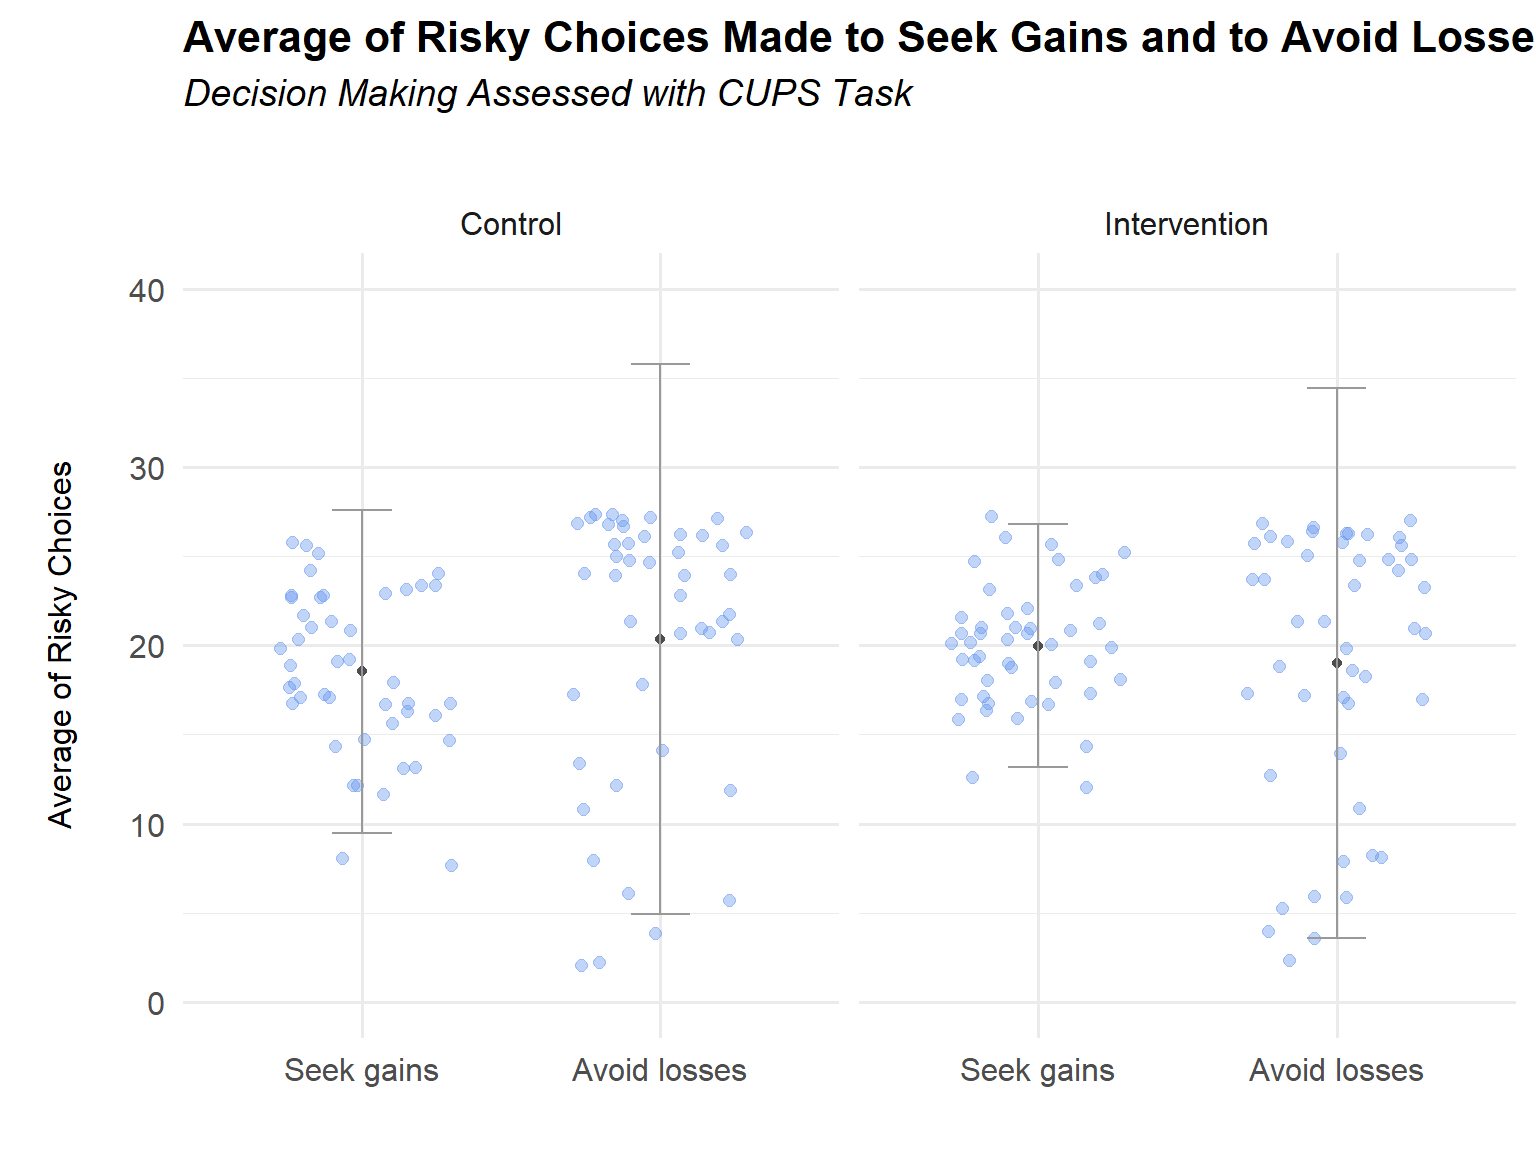
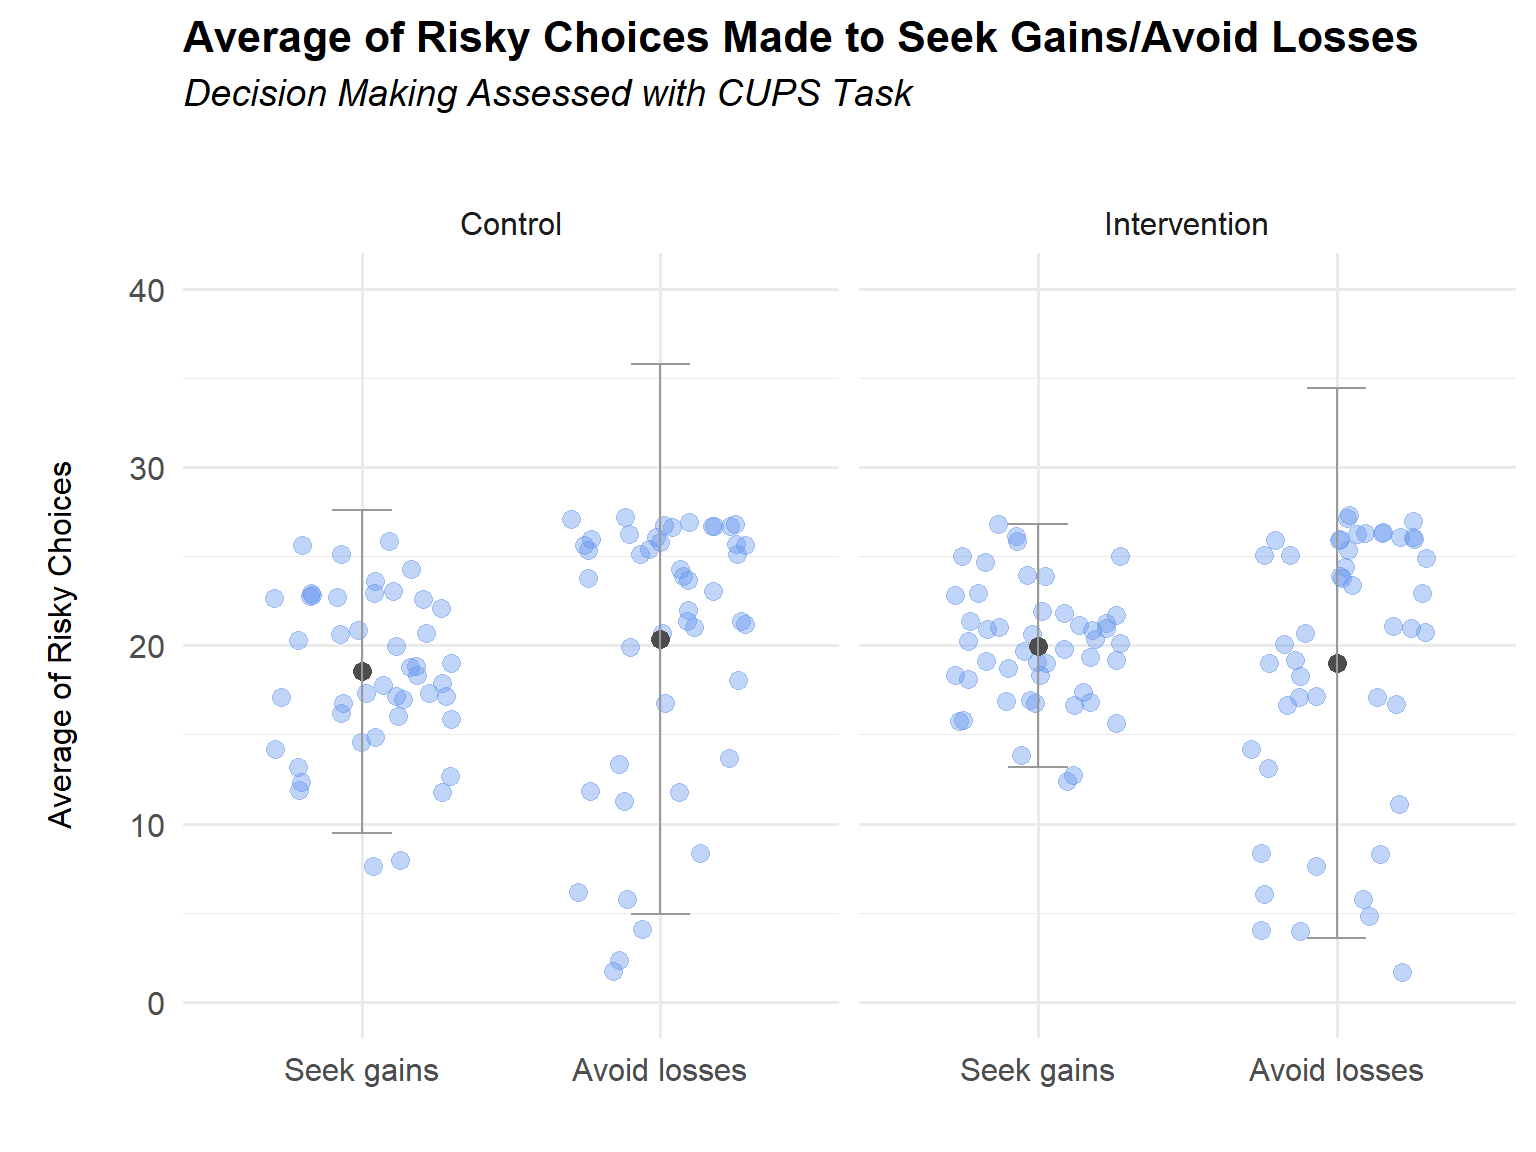
Added third viz and added task info in about

diff --git a/docs/posts/2019-03-18-third-data-viz/index.html b/docs/posts/2019-03-18-third-data-viz/index.html
@@ -21,7 +21,7 @@
   <!--radix_placeholder_meta_tags-->
 <title>Ale's Final Viz: Third Data Viz</title>
 
-<meta property="description" itemprop="description" content="A short description of the post."/>
+<meta property="description" itemprop="description" content="In this last visualization, I want to provide information about the average of risky choices made by the girls in the sample, differentiating when the risky choices were made in gain trials or loss trials of the CUPS task. Visit the About section for a brief description of the task."/>
 
 
 <!--  https://schema.org/Article -->
@@ -32,25 +32,25 @@
 <!--  https://developers.facebook.com/docs/sharing/webmasters#markup -->
 <meta property="og:title" content="Ale&#39;s Final Viz: Third Data Viz"/>
 <meta property="og:type" content="article"/>
-<meta property="og:description" content="A short description of the post."/>
+<meta property="og:description" content="In this last visualization, I want to provide information about the average of risky choices made by the girls in the sample, differentiating when the risky choices were made in gain trials or loss trials of the CUPS task. Visit the About section for a brief description of the task."/>
 <meta property="og:locale" content="en_US"/>
 <meta property="og:site_name" content="Ale&#39;s Final Viz"/>
 
 <!--  https://dev.twitter.com/cards/types/summary -->
 <meta property="twitter:card" content="summary"/>
 <meta property="twitter:title" content="Ale&#39;s Final Viz: Third Data Viz"/>
-<meta property="twitter:description" content="A short description of the post."/>
+<meta property="twitter:description" content="In this last visualization, I want to provide information about the average of risky choices made by the girls in the sample, differentiating when the risky choices were made in gain trials or loss trials of the CUPS task. Visit the About section for a brief description of the task."/>
 
 <!--/radix_placeholder_meta_tags-->
   <!--radix_placeholder_rmarkdown_metadata-->
 
 <script type="text/json" id="radix-rmarkdown-metadata">
-{"type":"list","attributes":{"names":{"type":"character","attributes":{},"value":["title","description","author","date","output"]}},"value":[{"type":"character","attributes":{},"value":["Third Data Viz"]},{"type":"character","attributes":{},"value":["A short description of the post."]},{"type":"list","attributes":{},"value":[{"type":"list","attributes":{"names":{"type":"character","attributes":{},"value":["name","url"]}},"value":[{"type":"character","attributes":{},"value":["Alejandra Garcia Isaza"]},{"type":"character","attributes":{},"value":["https://github.com/Alegarisa"]}]}]},{"type":"character","attributes":{},"value":["03-18-2019"]},{"type":"list","attributes":{"names":{"type":"character","attributes":{},"value":["distill::distill_article"]}},"value":[{"type":"list","attributes":{"names":{"type":"character","attributes":{},"value":["self_contained"]}},"value":[{"type":"logical","attributes":{},"value":[false]}]}]}]}
+{"type":"list","attributes":{"names":{"type":"character","attributes":{},"value":["title","description","author","date","output"]}},"value":[{"type":"character","attributes":{},"value":["Third Data Viz"]},{"type":"character","attributes":{},"value":["In this last visualization, I want to provide information about the average of risky choices made by the girls in the sample, differentiating when the risky choices were made in gain trials or loss trials of the CUPS task. Visit the About section for a brief description of the task."]},{"type":"list","attributes":{},"value":[{"type":"list","attributes":{"names":{"type":"character","attributes":{},"value":["name","url"]}},"value":[{"type":"character","attributes":{},"value":["Alejandra Garcia Isaza"]},{"type":"character","attributes":{},"value":["https://github.com/Alegarisa"]}]}]},{"type":"character","attributes":{},"value":["03-18-2019"]},{"type":"list","attributes":{"names":{"type":"character","attributes":{},"value":["distill::distill_article"]}},"value":[{"type":"list","attributes":{"names":{"type":"character","attributes":{},"value":["self_contained"]}},"value":[{"type":"logical","attributes":{},"value":[false]}]}]}]}
 </script>
 <!--/radix_placeholder_rmarkdown_metadata-->
   
   <script type="text/json" id="radix-resource-manifest">
-  {"type":"character","attributes":{},"value":["third-data-viz_files/figure-html5/unnamed-chunk-2-1.png","third-data-viz_files/figure-html5/unnamed-chunk-3-1.png","third-data-viz_files/figure-html5/unnamed-chunk-4-1.png"]}
+  {"type":"character","attributes":{},"value":["third-data-viz_files/bowser-1.9.3/bowser.min.js","third-data-viz_files/distill-2.2.21/template.v2.js","third-data-viz_files/figure-html5/unnamed-chunk-2-1.png","third-data-viz_files/figure-html5/unnamed-chunk-3-1.png","third-data-viz_files/figure-html5/unnamed-chunk-4-1.png","third-data-viz_files/jquery-1.11.3/jquery.min.js","third-data-viz_files/webcomponents-2.0.0/webcomponents.js"]}
   </script>
   <!--radix_placeholder_navigation_in_header-->
 
@@ -1280,7 +1280,7 @@ document.addEventListener('DOMContentLoaded', function() {
 <!--radix_placeholder_front_matter-->
 
 <script id="distill-front-matter" type="text/json">
-{"title":"Third Data Viz","description":"A short description of the post.","authors":[{"author":"Alejandra Garcia Isaza","authorURL":"https://github.com/Alegarisa","affiliation":"&nbsp;","affiliationURL":"#"}],"publishedDate":"2019-03-18T00:00:00.000-07:00","citationText":"Isaza, 2019"}
+{"title":"Third Data Viz","description":"In this last visualization, I want to provide information about the average of risky choices made by the girls in the sample, differentiating when the risky choices were made in gain trials or loss trials of the CUPS task. Visit the About section for a brief description of the task.","authors":[{"author":"Alejandra Garcia Isaza","authorURL":"https://github.com/Alegarisa","affiliation":"&nbsp;","affiliationURL":"#"}],"publishedDate":"2019-03-18T00:00:00.000-07:00","citationText":"Isaza, 2019"}
 </script>
 
 <!--/radix_placeholder_front_matter-->
@@ -1303,7 +1303,7 @@ document.addEventListener('DOMContentLoaded', function() {
 
 <div class="d-title">
 <h1>Third Data Viz</h1>
-<p>A short description of the post.</p>
+<p>In this last visualization, I want to provide information about the average of risky choices made by the girls in the sample, differentiating when the risky choices were made in gain trials or loss trials of the CUPS task. Visit the About section for a brief description of the task.</p>
 </div>
 
 <div class="d-byline">
@@ -1316,15 +1316,15 @@ document.addEventListener('DOMContentLoaded', function() {
 <div class="layout-chunk" data-layout="l-body">
 
 </div>
-<p>First attempt</p>
+<p>In the first version of this visualization, I just tidied the data to get the total number of risky choices made in loss and gain domains in one column, but it didn’t work. I realized that I had to take the averages next.</p>
 <div class="layout-chunk" data-layout="l-body">
 <p><img src="third-data-viz_files/figure-html5/unnamed-chunk-2-1.png" width="768" /></p>
 </div>
-<p>Second attempt</p>
+<p>In the second attempt, I took the averages of the risky choices made in each of the domains, but still. the Y-axis was not showing the average but a count.</p>
 <div class="layout-chunk" data-layout="l-body">
 <p><img src="third-data-viz_files/figure-html5/unnamed-chunk-3-1.png" width="768" /></p>
 </div>
-<p>Third version</p>
+<p>For the third and final version of this visualization, I decided to abort the mission of doing a dynamite plot, which I finally understood is not very effective and may be deceiving, and went for a dot plot. In this visualization, you can appreciate the spread of the data points, where clusters of data are, and you can still add the average (the gray dots) and errors bars. I felt happy about the result of this visualization!</p>
 <div class="layout-chunk" data-layout="l-body">
 <p><img src="third-data-viz_files/figure-html5/unnamed-chunk-4-1.png" width="768" /></p>
 </div>

diff --git a/_posts/2019-03-18-third-data-viz/third-data-viz.html b/_posts/2019-03-18-third-data-viz/third-data-viz.html
@@ -21,7 +21,7 @@
   <!--radix_placeholder_meta_tags-->
   <title>Third Data Viz</title>
   
-  <meta property="description" itemprop="description" content="A short description of the post."/>
+  <meta property="description" itemprop="description" content="In this last visualization, I want to provide information about the average of risky choices made by the girls in the sample, differentiating when the risky choices were made in gain trials or loss trials of the CUPS task. Visit the About section for a brief description of the task."/>
   
   
   <!--  https://schema.org/Article -->
@@ -32,24 +32,24 @@
   <!--  https://developers.facebook.com/docs/sharing/webmasters#markup -->
   <meta property="og:title" content="Third Data Viz"/>
   <meta property="og:type" content="article"/>
-  <meta property="og:description" content="A short description of the post."/>
+  <meta property="og:description" content="In this last visualization, I want to provide information about the average of risky choices made by the girls in the sample, differentiating when the risky choices were made in gain trials or loss trials of the CUPS task. Visit the About section for a brief description of the task."/>
   <meta property="og:locale" content="en_US"/>
   
   <!--  https://dev.twitter.com/cards/types/summary -->
   <meta property="twitter:card" content="summary"/>
   <meta property="twitter:title" content="Third Data Viz"/>
-  <meta property="twitter:description" content="A short description of the post."/>
+  <meta property="twitter:description" content="In this last visualization, I want to provide information about the average of risky choices made by the girls in the sample, differentiating when the risky choices were made in gain trials or loss trials of the CUPS task. Visit the About section for a brief description of the task."/>
   
   <!--/radix_placeholder_meta_tags-->
   <!--radix_placeholder_rmarkdown_metadata-->
   
   <script type="text/json" id="radix-rmarkdown-metadata">
-  {"type":"list","attributes":{"names":{"type":"character","attributes":{},"value":["title","description","author","date","output"]}},"value":[{"type":"character","attributes":{},"value":["Third Data Viz"]},{"type":"character","attributes":{},"value":["A short description of the post.\n"]},{"type":"list","attributes":{},"value":[{"type":"list","attributes":{"names":{"type":"character","attributes":{},"value":["name","url"]}},"value":[{"type":"character","attributes":{},"value":["Alejandra Garcia Isaza"]},{"type":"character","attributes":{},"value":["https://github.com/Alegarisa"]}]}]},{"type":"character","attributes":{},"value":["03-18-2019"]},{"type":"list","attributes":{"names":{"type":"character","attributes":{},"value":["distill::distill_article"]}},"value":[{"type":"list","attributes":{"names":{"type":"character","attributes":{},"value":["self_contained"]}},"value":[{"type":"logical","attributes":{},"value":[false]}]}]}]}
+  {"type":"list","attributes":{"names":{"type":"character","attributes":{},"value":["title","description","author","date","output"]}},"value":[{"type":"character","attributes":{},"value":["Third Data Viz"]},{"type":"character","attributes":{},"value":["In this last visualization, I want to provide information about the average of risky choices made by the girls in the sample, differentiating when the risky choices were made in gain trials or loss trials of the CUPS task. Visit the About section for a brief description of the task. \n"]},{"type":"list","attributes":{},"value":[{"type":"list","attributes":{"names":{"type":"character","attributes":{},"value":["name","url"]}},"value":[{"type":"character","attributes":{},"value":["Alejandra Garcia Isaza"]},{"type":"character","attributes":{},"value":["https://github.com/Alegarisa"]}]}]},{"type":"character","attributes":{},"value":["03-18-2019"]},{"type":"list","attributes":{"names":{"type":"character","attributes":{},"value":["distill::distill_article"]}},"value":[{"type":"list","attributes":{"names":{"type":"character","attributes":{},"value":["self_contained"]}},"value":[{"type":"logical","attributes":{},"value":[false]}]}]}]}
   </script>
   <!--/radix_placeholder_rmarkdown_metadata-->
   
   <script type="text/json" id="radix-resource-manifest">
-  {"type":"character","attributes":{},"value":["third-data-viz_files/figure-html5/unnamed-chunk-2-1.png","third-data-viz_files/figure-html5/unnamed-chunk-3-1.png","third-data-viz_files/figure-html5/unnamed-chunk-4-1.png"]}
+  {"type":"character","attributes":{},"value":["third-data-viz_files/bowser-1.9.3/bowser.min.js","third-data-viz_files/distill-2.2.21/template.v2.js","third-data-viz_files/figure-html5/unnamed-chunk-2-1.png","third-data-viz_files/figure-html5/unnamed-chunk-3-1.png","third-data-viz_files/figure-html5/unnamed-chunk-4-1.png","third-data-viz_files/jquery-1.11.3/jquery.min.js","third-data-viz_files/webcomponents-2.0.0/webcomponents.js"]}
   </script>
   <!--radix_placeholder_navigation_in_header-->
   <!--/radix_placeholder_navigation_in_header-->
@@ -942,7 +942,7 @@
 <!--radix_placeholder_front_matter-->
 
 <script id="distill-front-matter" type="text/json">
-{"title":"Third Data Viz","description":"A short description of the post.","authors":[{"author":"Alejandra Garcia Isaza","authorURL":"https://github.com/Alegarisa","affiliation":"&nbsp;","affiliationURL":"#"}],"publishedDate":"2019-03-18T00:00:00.000-07:00","citationText":"Isaza, 2019"}
+{"title":"Third Data Viz","description":"In this last visualization, I want to provide information about the average of risky choices made by the girls in the sample, differentiating when the risky choices were made in gain trials or loss trials of the CUPS task. Visit the About section for a brief description of the task.","authors":[{"author":"Alejandra Garcia Isaza","authorURL":"https://github.com/Alegarisa","affiliation":"&nbsp;","affiliationURL":"#"}],"publishedDate":"2019-03-18T00:00:00.000-07:00","citationText":"Isaza, 2019"}
 </script>
 
 <!--/radix_placeholder_front_matter-->
@@ -953,7 +953,7 @@
 
 <div class="d-title">
 <h1>Third Data Viz</h1>
-<p>A short description of the post.</p>
+<p>In this last visualization, I want to provide information about the average of risky choices made by the girls in the sample, differentiating when the risky choices were made in gain trials or loss trials of the CUPS task. Visit the About section for a brief description of the task.</p>
 </div>
 
 <div class="d-byline">
@@ -966,15 +966,15 @@
 <div class="layout-chunk" data-layout="l-body">
 
 </div>
-<p>First attempt</p>
+<p>In the first version of this visualization, I just tidied the data to get the total number of risky choices made in loss and gain domains in one column, but it didn’t work. I realized that I had to take the averages next.</p>
 <div class="layout-chunk" data-layout="l-body">
 <p><img src="third-data-viz_files/figure-html5/unnamed-chunk-2-1.png" width="768" /></p>
 </div>
-<p>Second attempt</p>
+<p>In the second attempt, I took the averages of the risky choices made in each of the domains, but still. the Y-axis was not showing the average but a count.</p>
 <div class="layout-chunk" data-layout="l-body">
 <p><img src="third-data-viz_files/figure-html5/unnamed-chunk-3-1.png" width="768" /></p>
 </div>
-<p>Third version</p>
+<p>For the third and final version of this visualization, I decided to abort the mission of doing a dynamite plot, which I finally understood is not very effective and may be deceiving, and went for a dot plot. In this visualization, you can appreciate the spread of the data points, where clusters of data are, and you can still add the average (the gray dots) and errors bars. I felt happy about the result of this visualization!</p>
 <div class="layout-chunk" data-layout="l-body">
 <p><img src="third-data-viz_files/figure-html5/unnamed-chunk-4-1.png" width="768" /></p>
 </div>

diff --git a/docs/about.html b/docs/about.html
@@ -1301,7 +1301,11 @@
 
 <div class="d-article">
 <p>The present study used data from the Middle School Success Project, a longitudinal randomized controlled trial that evaluated the efficacy of a version of the KEEP SAFE program for pre-adolescent girls in foster care (Chamberlain, Leve, &amp; Smith, 2006).</p>
-<p>The literature suggests that adverse events that foster youth experience during childhood may uniquely shape youth’s decision-making. In this project I intend to investigate the effects of maltreatment severity and placement changes on adolescent girls’ risky decision-making. Understanding this association is important because risky decision-making is associated with a host of negative outcomes for foster youth.</p>
+<p>The literature suggests that adverse events that foster youth experience during childhood may uniquely shape youth’s decision-making. In this project, I intend to investigate the effects of maltreatment severity and placement changes on adolescent girls’ risky decision-making. Understanding this association is important because risky decision-making is associated with a host of negative outcomes for foster youth.</p>
+<p>This study uses an innovative task to assess risky decision-making called the CUPS task. Briefly, the task resembles a betting game where participants are shown two arrays of cups, with coins underneath them, from which they have to choose between a safe choice and a risky choice in order to win coins (gain domain) or prevent the loss of coins (loss domain). The task consists of a total of 54 trials were 27 trials belong to the gain domain, and 27 trials belong to the loss domain. The number of cups and the amount of money to win/lose varies throughout the trials resulting in different probabilities of winning/losing and different outcome magnitude to win/lose. The safe choice entails a sure but small amount of money that the participant can choose to win/lose in each trial. The risky choice entails the probability of winning all or losing all in each trial. For a more detailed description of the task, see Weller &amp; Fisher (2013).</p>
+<p>References</p>
+<p>Chamberlain, P., Leve, L. D., &amp; Smith, D. K. (2006). Preventing behavior problems and health-risking behaviors in girls in foster care. <em>International Journal of Behavioral Consultation and Therapy</em>, 2(4), 518.</p>
+<p>Weller, J. A., &amp; Fisher, P. A. (2013). Decision-making deficits among maltreated children. <em>Child Maltreatment</em>, 18(3), 184-194.</p>
 <!--radix_placeholder_article_footer-->
 <!--/radix_placeholder_article_footer-->
 </div>

diff --git a/docs/index.html b/docs/index.html
@@ -1632,7 +1632,7 @@ function init_posts_list() {
 </div>
 <div class="description">
 <h2>Third Data Viz</h2>
-<p>A short description of the post.</p>
+<p>In this last visualization, I want to provide information about the average of risky choices made by the girls in the sample, differentiating when the risky choices were made in gain trials or loss trials of the CUPS task. Visit the About section for a brief description of the task.</p>
 </div>
 </a>
 <a href="posts/2019-03-17-first-data-viz/" class="post-preview">
